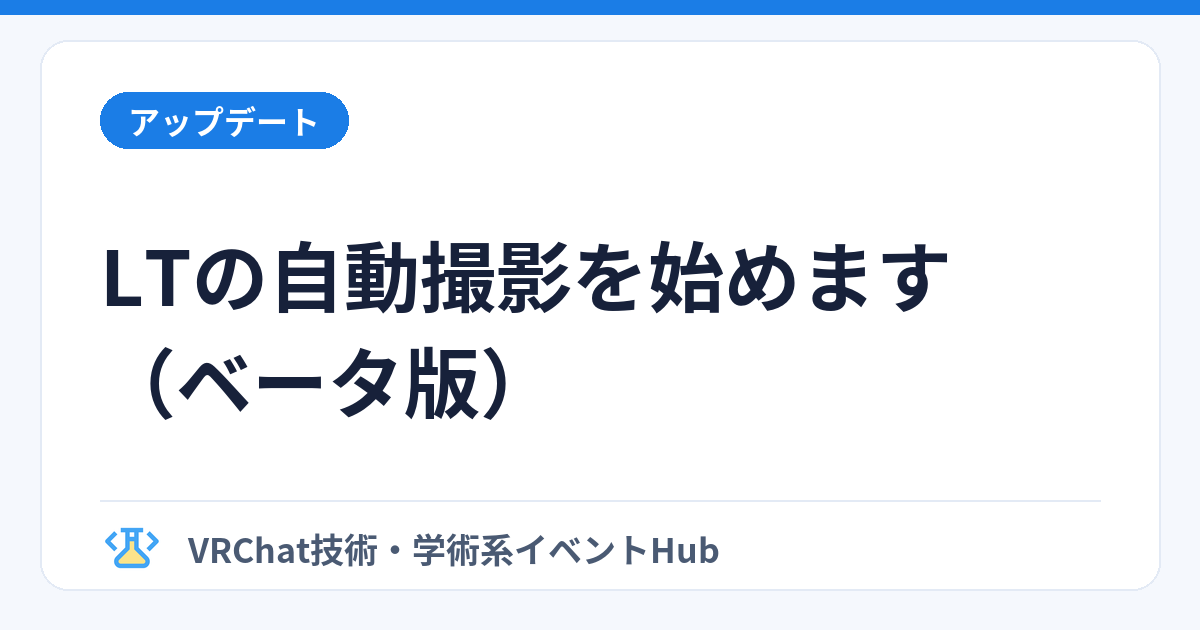
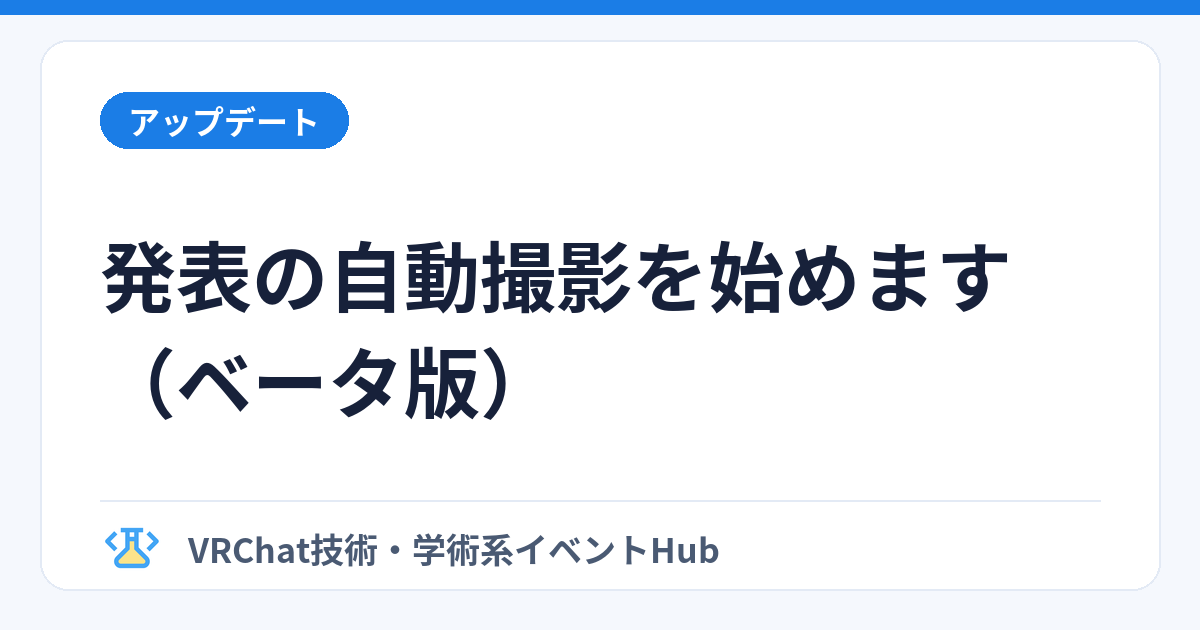
news: サムネイルの文言を「発表の自動撮影を始めます（ベータ版）」に（ユーザー向けは「発表」の表記）
Claude-Session: https://claude.ai/code/session_01P4MTSe7ncw9BS2eof1CYhV

Changed region(s): [[0.0925, 0.3619, 0.8633, 0.5127]]

diff --git a/app/news/thumbnail_specs.py b/app/news/thumbnail_specs.py
@@ -97,7 +97,7 @@ POST_THUMBNAIL_SPECS: tuple[PostThumbnailSpec, ...] = (
     ),
     PostThumbnailSpec(
         slug="2026-10-11-auto-recording-beta",
-        title="LTの自動撮影を始めます（ベータ版）",
+        title="発表の自動撮影を始めます（ベータ版）",
         category_slug="update",
         filename="2026-10-11-auto-recording-beta-v1.png",
     ),
